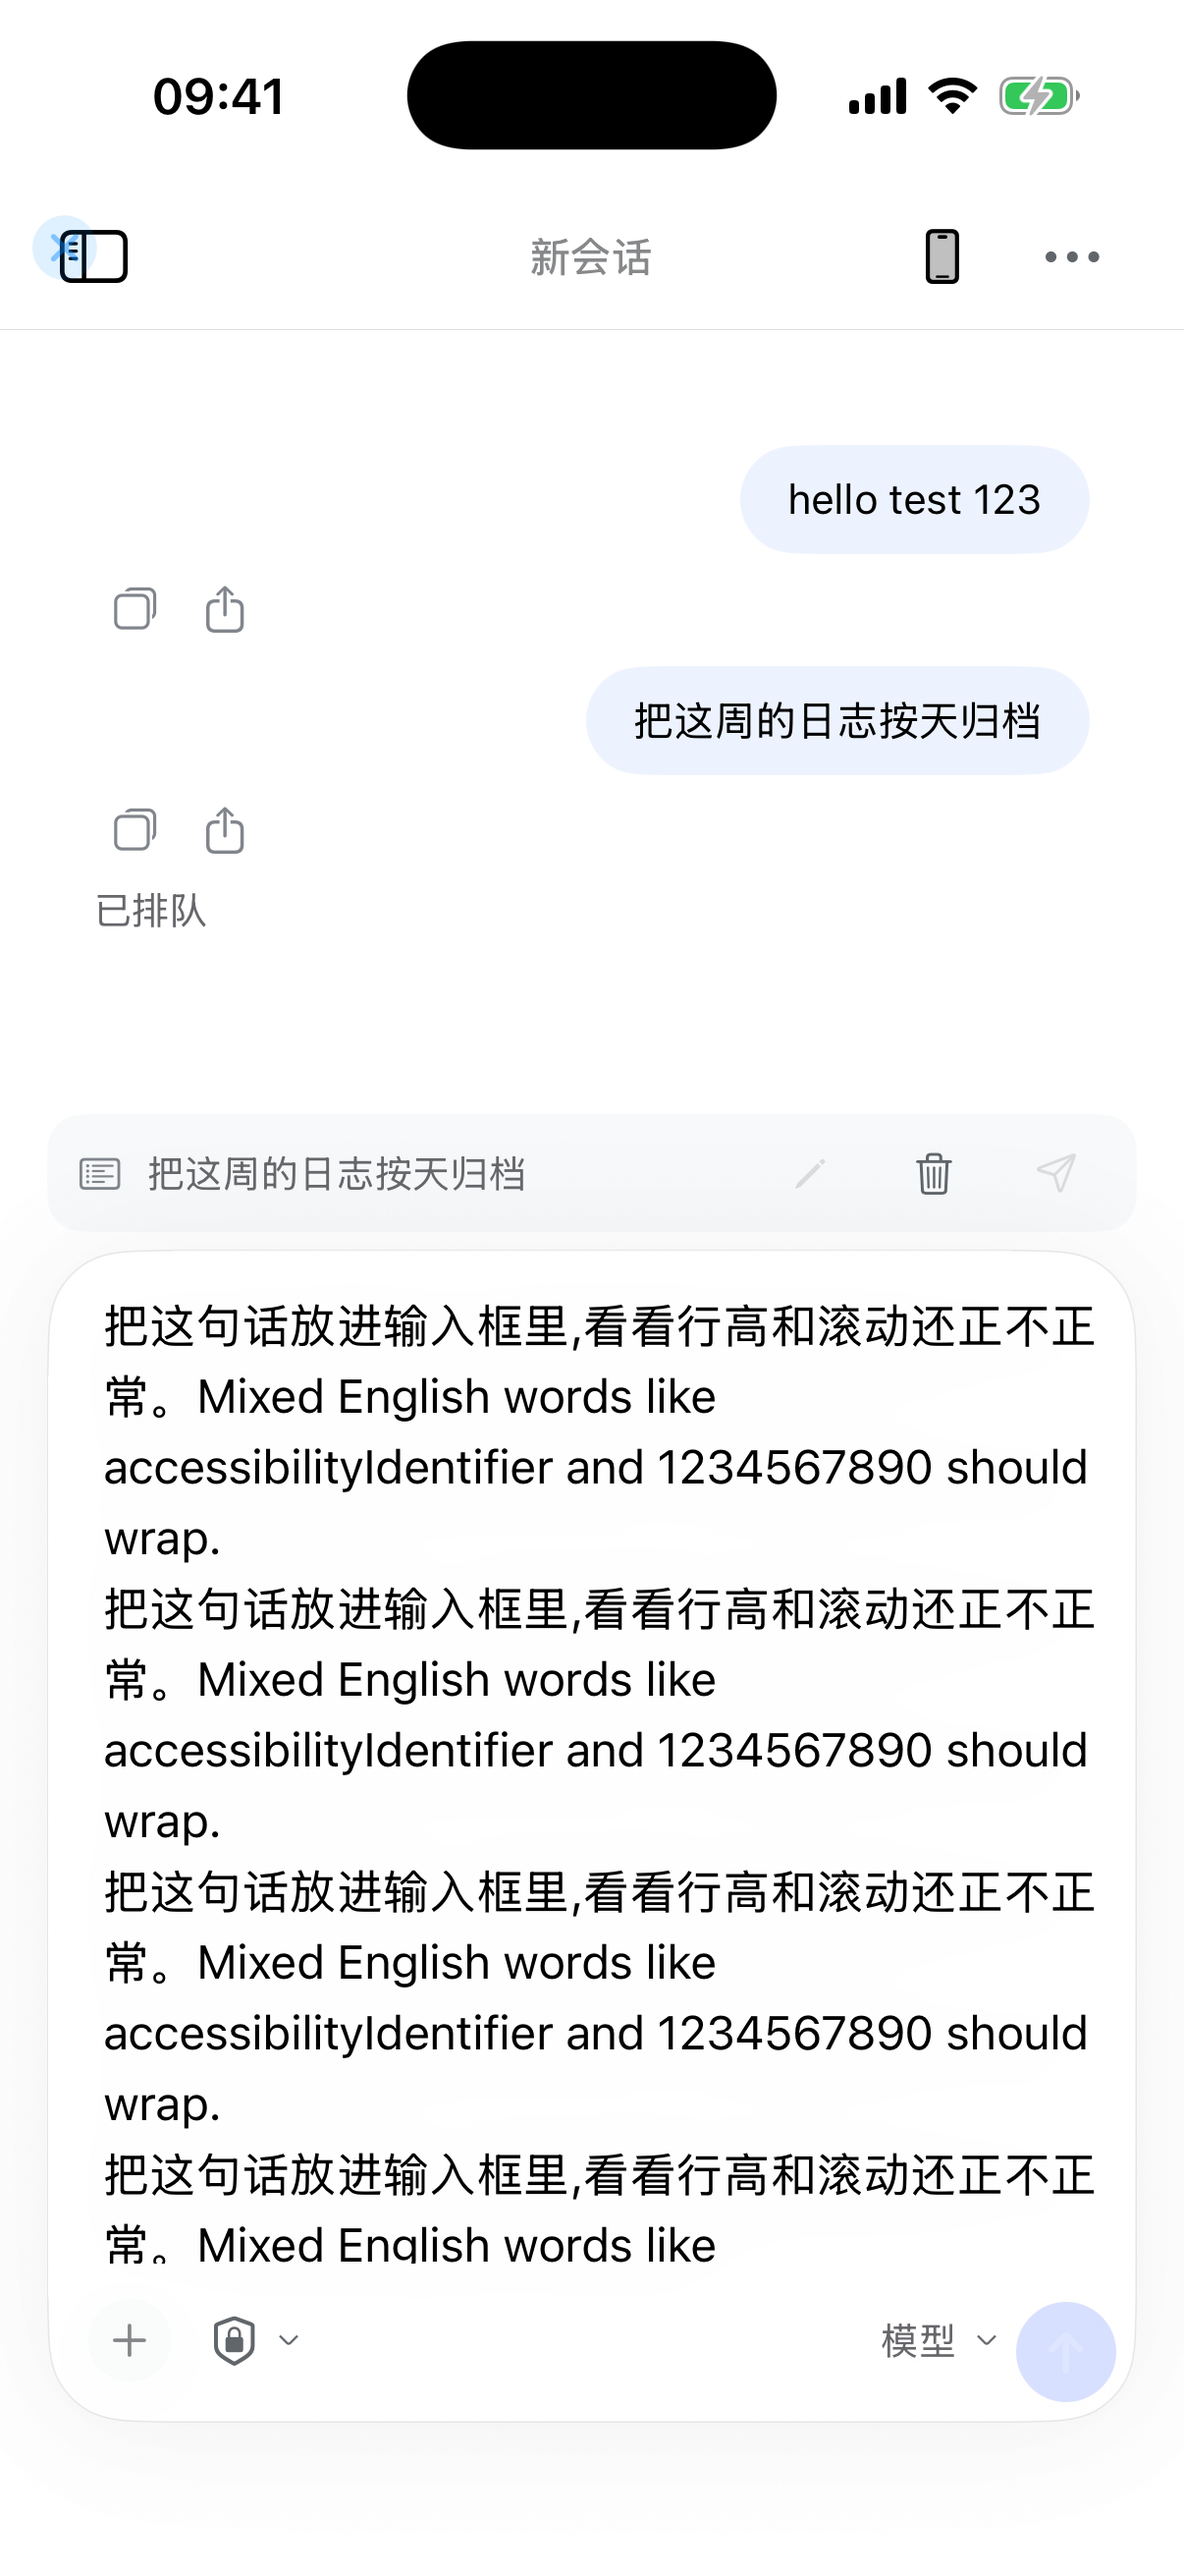
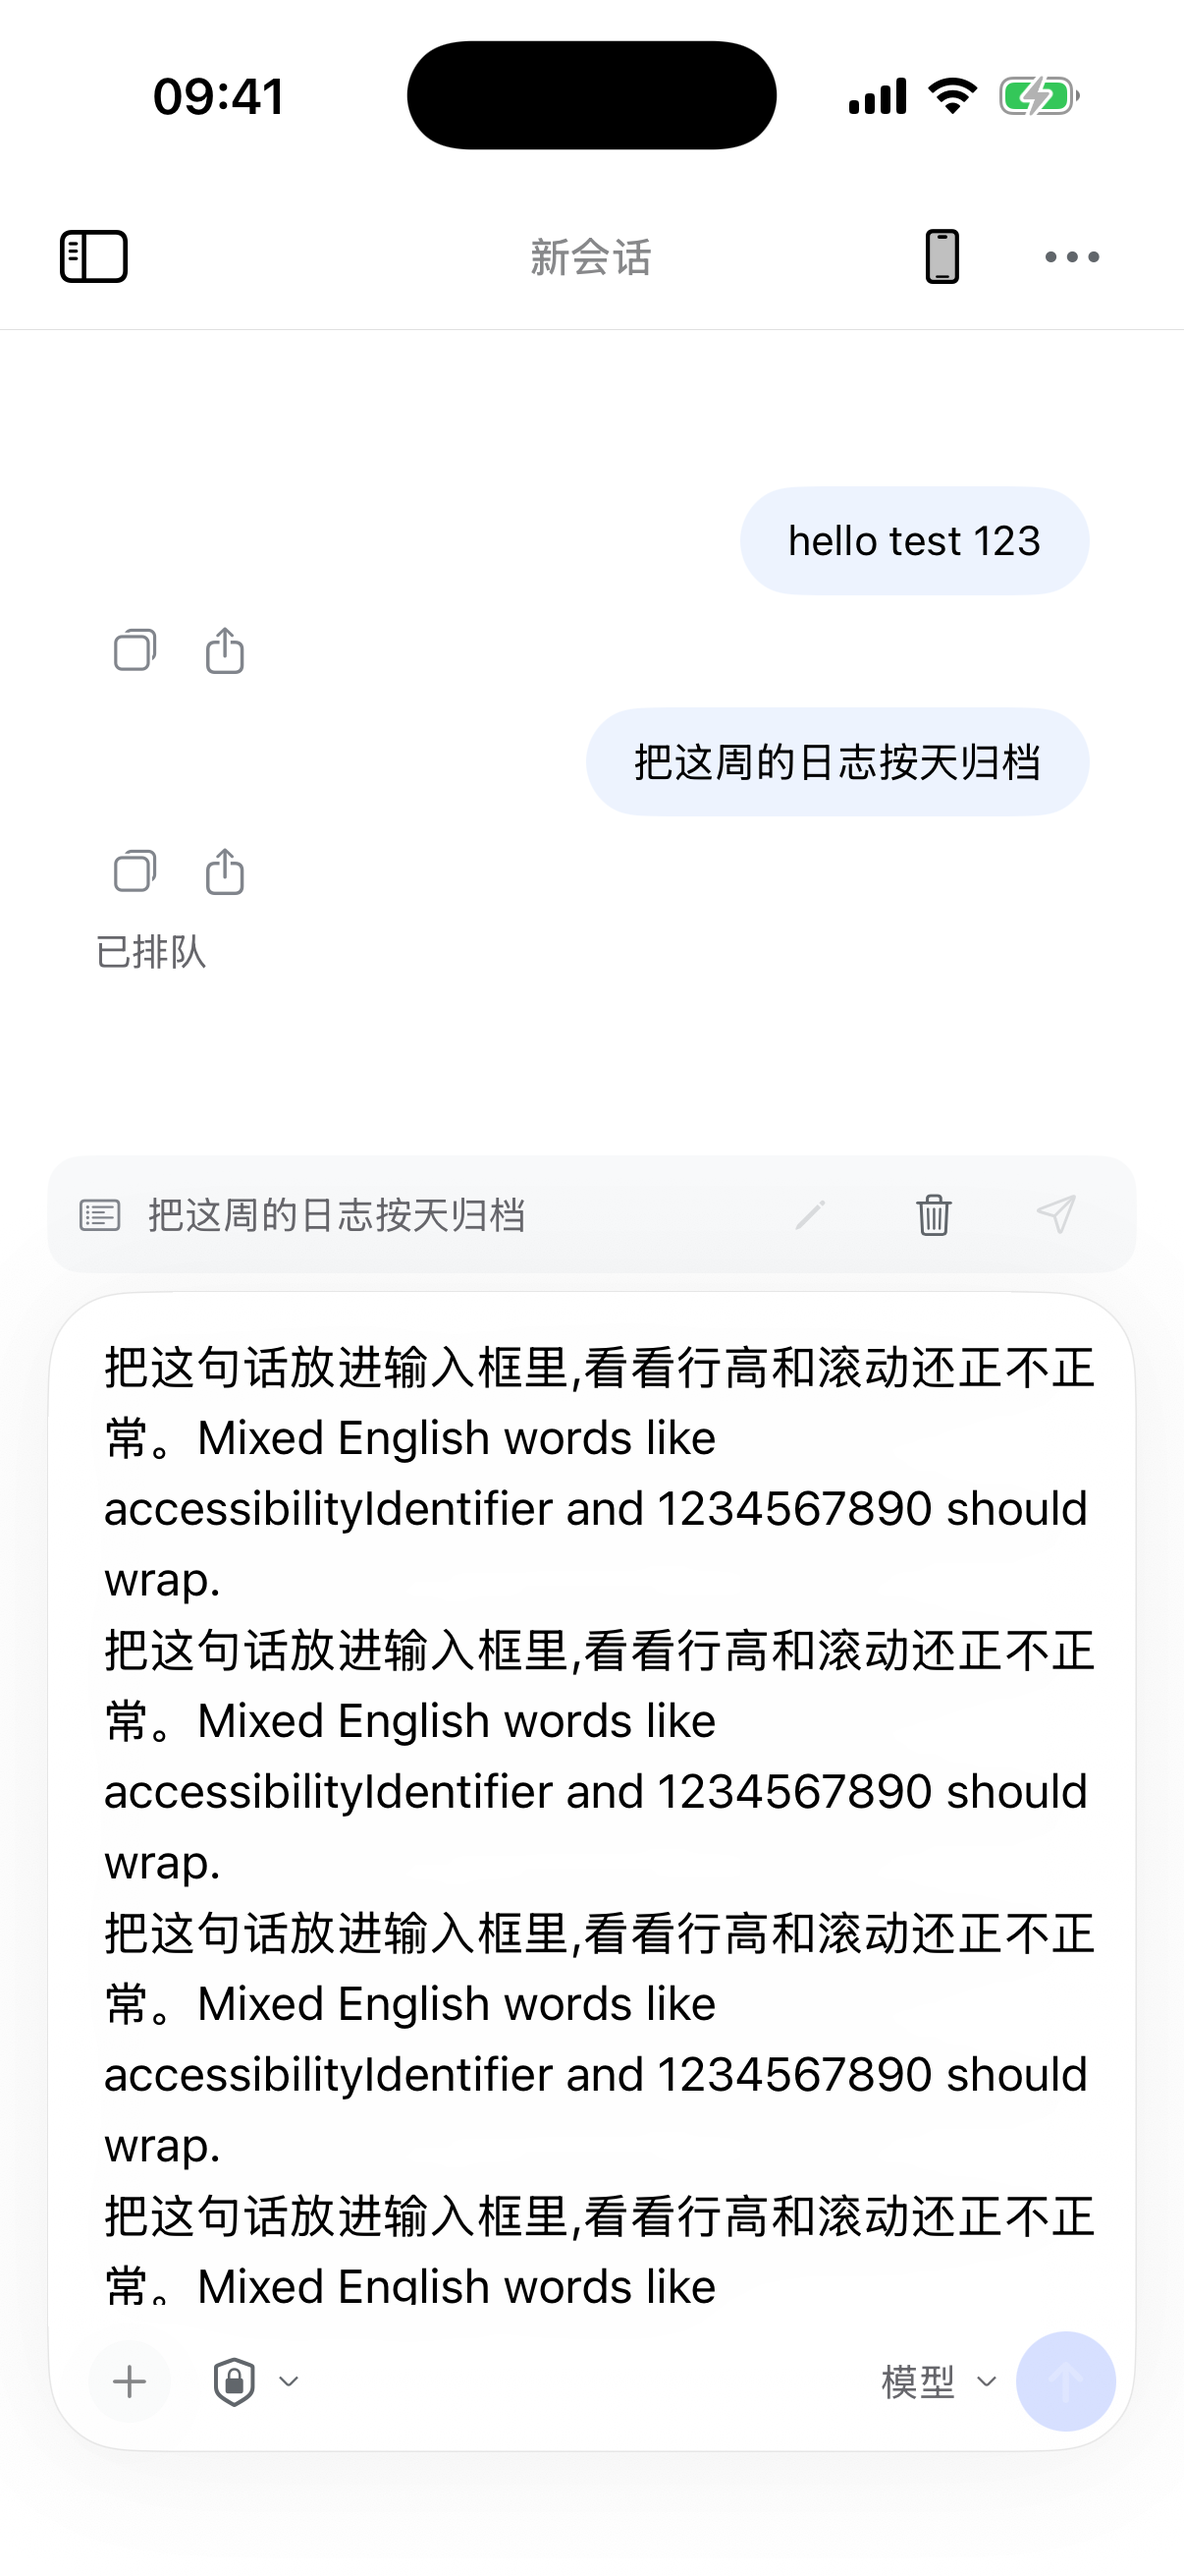
fix: tighten composer bottom spacing

diff --git a/examples/probe-app/PhoneDSHProbe/ChatPage.swift b/examples/probe-app/PhoneDSHProbe/ChatPage.swift
@@ -1866,7 +1866,7 @@ struct ChatPage: View {
                     .padding(.trailing, 40)
                     .frame(height: 32)
                     .padding(.top, 10)
-                    .padding(.bottom, 12)
+                    .padding(.bottom, 8)
                     .frame(maxWidth: .infinity, alignment: .leading)
             }
             .frame(maxWidth: .infinity, alignment: .leading)
@@ -1891,7 +1891,9 @@ struct ChatPage: View {
         }
         .padding(.horizontal, 16)
         .padding(.top, 12)
-        .padding(.bottom, 8)
+        // Keep the stats line close to the home-indicator safe area instead of
+        // stacking an 8pt card inset on top of it.
+        .padding(.bottom, 0)
         .background(NativeChatTheme.background)
         // The command catalog is pulled the first time the trigger opens, the
         // same lazy load the DSH command directory does per session.

diff --git a/examples/probe-app/PhoneDSHProbe/NativeComposerStats.swift b/examples/probe-app/PhoneDSHProbe/NativeComposerStats.swift
@@ -33,7 +33,7 @@ struct NativeComposerStats: View {
         }
         .modifier(NativeStatPill())
         .frame(maxWidth: .infinity)
-        .padding(.top, 4)
+        .padding(.top, 2)
     }
 
     private var detailedView: some View {
@@ -75,7 +75,7 @@ struct NativeComposerStats: View {
             }
         }
         .frame(maxWidth: .infinity)
-        .padding(.top, 4)
+        .padding(.top, 2)
         .sheet(item: $detail) { selected in
             NavigationStack {
                 List {
